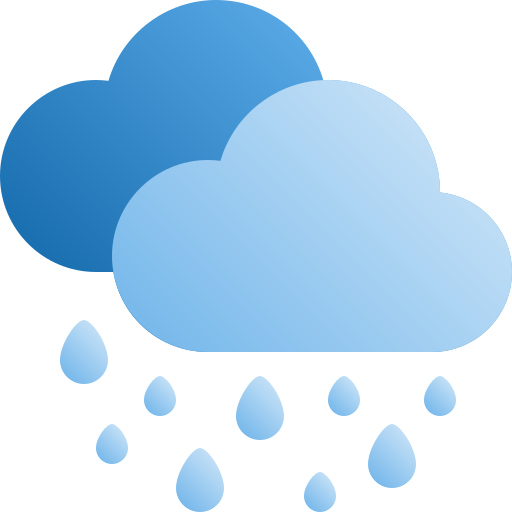
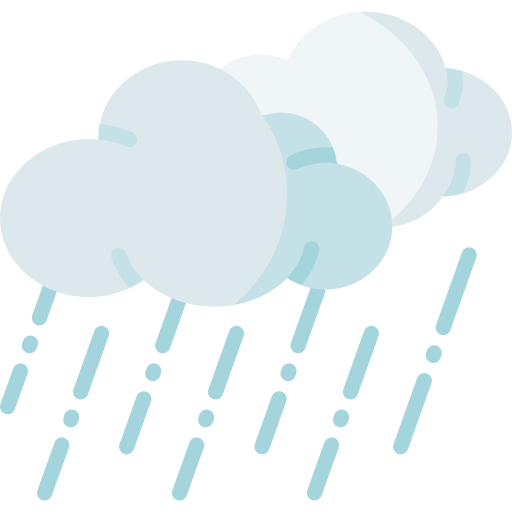
Add language selection and UI translations
- Introduces a language selector to the UI and a new lang.js file for managing translations in Finnish, English, and Swedish.

- Updates index.html to include the selector and hooks for translated UI elements. Minor change in scripts.js to add an id to the temperature label for future localization.

- Weather icon images are also updated.

diff --git a/lang.js b/lang.js
@@ -1,0 +1,57 @@
+// Kielivalinta ja UI-käännökset
+const LANGUAGES = {
+    fi: {
+        mainTitle: "Sääsovellus",
+        cityPlaceholder: "Esim. Helsinki, Tokyo, New York",
+        searchBtn: "Hae sää",
+        locationBtn: "Käytä nykyinen sijainti",
+        unitToggle: "Vaihda °F",
+        forecastTitle: "5 päivän ennuste",
+        alertInvalid: "Numerot ja erikoismerkit eivät ole sallittuja.",
+        autocomplete: "Hae kaupunkiehdotuksia...",
+    },
+    en: {
+        mainTitle: "Weather App",
+        cityPlaceholder: "E.g., Helsinki, Tokyo, New York",
+        searchBtn: "Get Weather",
+        locationBtn: "Use current location",
+        unitToggle: "Switch to °F",
+        forecastTitle: "5 days forecast",
+        alertInvalid: "Numbers and special characters are not allowed.",
+        autocomplete: "Search city suggestions...",
+    },
+    sv: {
+        mainTitle: "Väderapp",
+        cityPlaceholder: "T.ex. Helsingfors, Tokyo, New York",
+        searchBtn: "Hämta väder",
+        locationBtn: "Använd nuvarande plats",
+        unitToggle: "Byt till °F",
+        forecastTitle: "5 dagars prognos",
+        alertInvalid: "Siffror och specialtecken är inte tillåtna.",
+        autocomplete: "Sök stad...",
+    }
+};
+let currentLang = 'en';
+function updateUILanguage() {
+    const lang = LANGUAGES[currentLang];
+    document.getElementById('main-title').textContent = lang.mainTitle;
+    document.querySelector('.cityInput').placeholder = lang.cityPlaceholder;
+    document.querySelector('.search-btn').textContent = lang.searchBtn;
+    document.querySelector('.location-btn').textContent = lang.locationBtn;
+    document.querySelector('.unit-toggle-btn').textContent = lang.unitToggle;
+    
+    const forecastTitle = document.querySelector('.days-forecast > h2');
+    if (forecastTitle) forecastTitle.textContent = lang.forecastTitle;
+    const cityInputAlert = document.getElementById('city-input-alert');
+    if (cityInputAlert) cityInputAlert.textContent = lang.alertInvalid;
+}
+window.addEventListener('DOMContentLoaded', () => {
+    const langSelect = document.getElementById('lang-select');
+    if (langSelect) {
+        langSelect.addEventListener('change', function() {
+            currentLang = langSelect.value;
+            updateUILanguage();
+        });
+    }
+    updateUILanguage();
+});

diff --git a/scripts.js b/scripts.js
@@ -329,7 +329,7 @@ function createHourlyForecastCard(dateString, cityName, forecastList) {
             <div class="hour-main">${item.weather[0].main}</div>
             <div class="hour-desc">${item.weather[0].description}</div>
             <div class="hour-data-table">
-                <div class="hour-data-row"><span class="hour-data-label">Temperature:</span><span class="hour-data-value">${typeof item.main.temp !== 'undefined' ? convertTemp(item.main.temp) : noData}</span></div>
+                <div class="hour-data-row"><span class="hour-data-label" id='Temperature'>Temperature:</span><span class="hour-data-value">${typeof item.main.temp !== 'undefined' ? convertTemp(item.main.temp) : noData}</span></div>
                 <div class="hour-data-row"><span class="hour-data-label">Feels like:</span><span class="hour-data-value">${typeof item.main.feels_like !== 'undefined' ? convertTemp(item.main.feels_like) : noData}</span></div>
                 <div class="hour-data-row"><span class="hour-data-label">Wind speed:</span><span class="hour-data-value">${typeof item.wind.speed !== 'undefined' ? item.wind.speed + ' m/s' : noData}</span></div>
                 <div class="hour-data-row"><span class="hour-data-label">Humidity:</span><span class="hour-data-value">${typeof item.main.humidity !== 'undefined' ? item.main.humidity + ' %' : noData}</span></div>

diff --git a/index.html b/index.html
@@ -5,10 +5,19 @@
     <meta name="viewport" content="width=device-width, initial-scale=1.0">
     <title>Weather App</title>
     <link rel="stylesheet" href="styles.css">
+    <script src="lang.js" defer></script>
     <script src="scripts.js" defer></script>
 </head>
 <body>
-    <h1>Weather App</h1>
+    <div class="lang-select-container" style="text-align:right;margin:1rem 2rem 0 0;">
+        <label for="lang-select">Kieli / Language:</label>
+        <select id="lang-select">
+            <option value="fi">Suomi</option>
+            <option value="en" selected>English</option>
+            <option value="sv">Svenska</option>
+        </select>
+    </div>
+    <h1 id="main-title">Weather App</h1>
         <div class="container">
             <div class="weather-input">
                 <h3>Enter a city name</h3>
